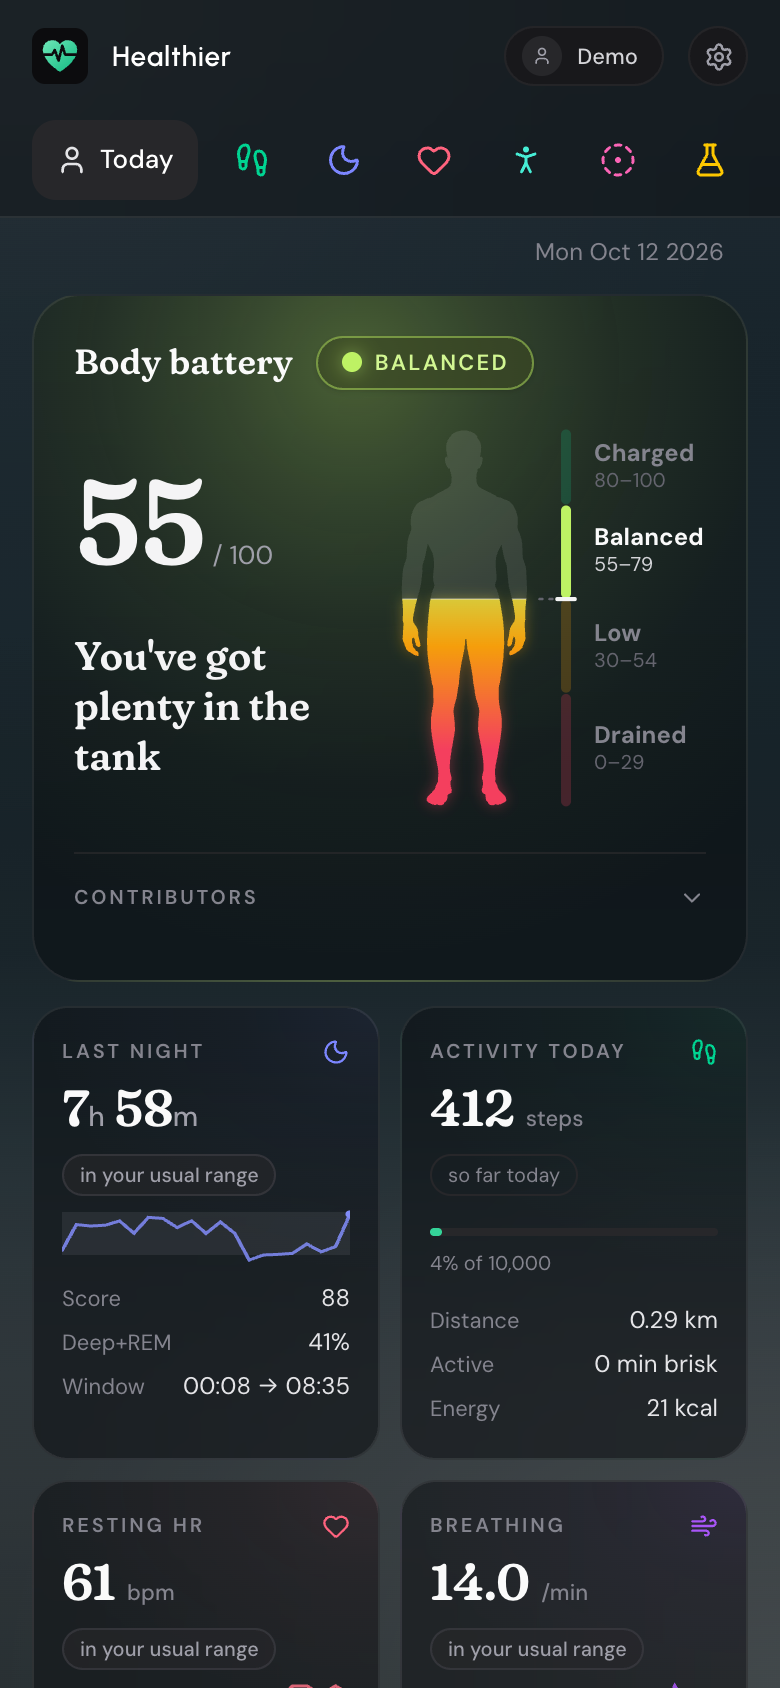
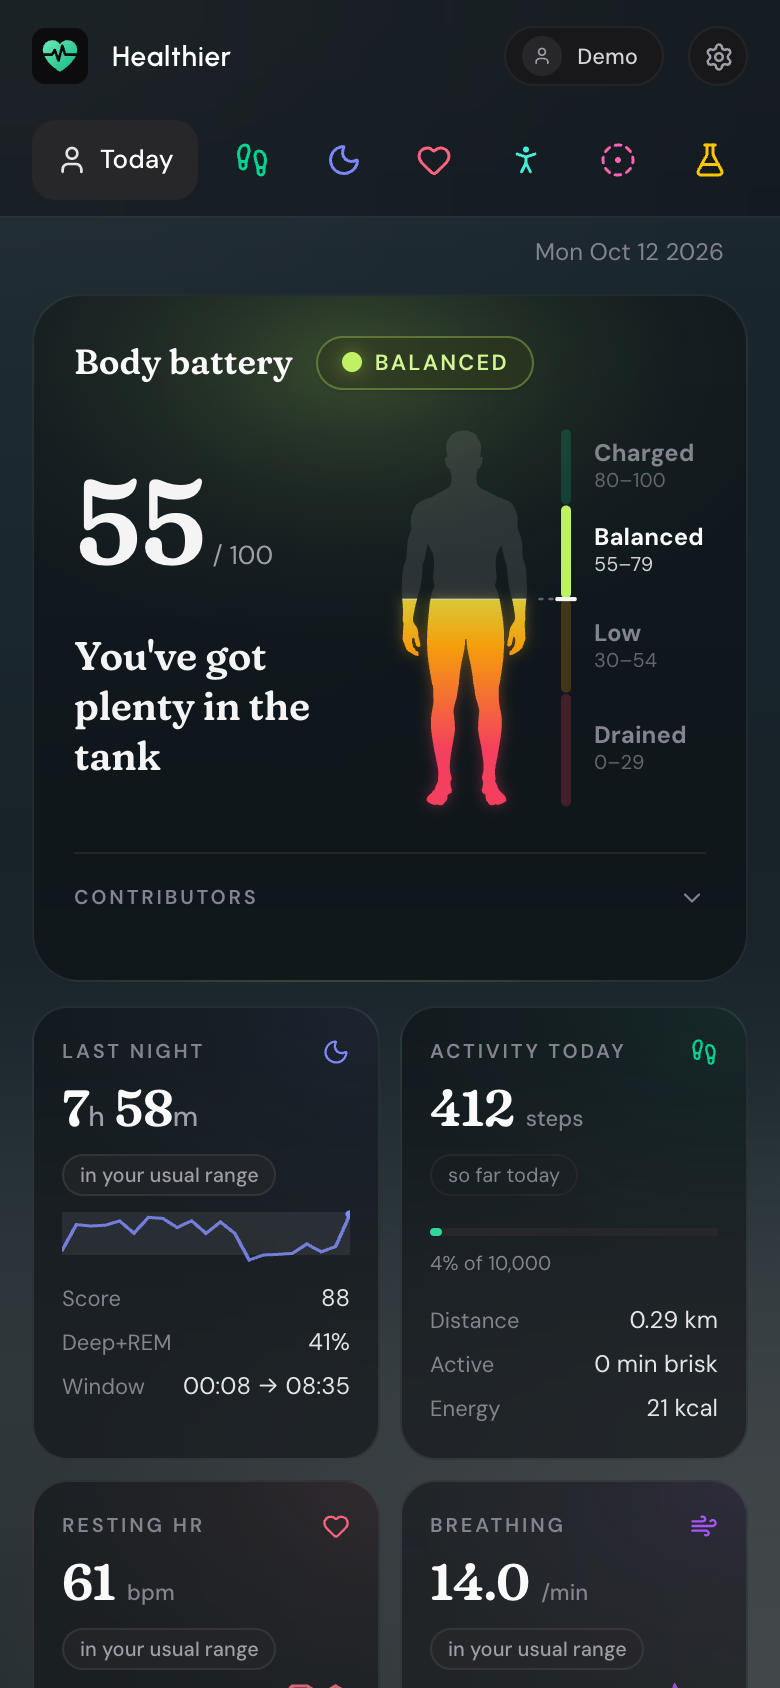
Softer score glows and pills, and shorter Settings subtitles (#141)
## What and why

Two rounds of touches tried in the app.

The body battery and sleep score glows spread too far into their cards.
They're now an oval around the pill's dot that reaches about as far as
an insight card's glow, a bit further on desktop where the cards and
type are bigger, and a little fainter. The status pills are softened to
match: a lighter tint and edge, and a smaller halo round the dot.

Settings is tidier. The status card no longer explains syncing when
everything is up to date. Each row in the list has a short subtitle: the
devices in priority order ("Fitbit · Charge 6 · …"), the number of data
types that have come in, the goals by name, On or Off for cycle
tracking, "Data processing in Healthier" for Data facts, and "Theme ·
Sign out · Delete" for the account. The strings they replace are gone
from the language file.

The README's Today, Sleep and Settings screenshots are retaken from demo
mode.

## Checklist

- [x] `npm run typecheck` and `npm test` pass
- [x] Words on screen come from `src/locales/en-US.json`, not the code
- [x] New or changed insight cards and labs read as plain sentences,
make no medical claims, and cite their evidence
- [x] Changes to normalisation (`registry.ts`, `normalize.ts`, sleep
parsing) bump `PIPELINE_VERSION`
- [x] Database changes are a new migration in `server/db.ts`, not an
edit to an existing one
- [x] New settings are documented in `.env.example` and the README
[…]

Changed region(s): [[0.3077, 0.154, 0.5846, 0.3697]]

diff --git a/src/theme.css b/src/theme.css
@@ -336,16 +336,25 @@ body::before {
     transparent);
 }
 /*
- * A score's glow is a status, so it's as strong as an insight card's glow and eases out the same
- * way: a circle centred on the dot, gone within a few hundred pixels of it, whatever the card's shape.
+ * A score's glow is a status, so it's nearly as strong as an insight card's glow (a little fainter) and
+ * eases out the same way, reaching a little further than an insight's (half its card's height,
+ * 86–99px) since it's all around the dot: an oval centred on it, wider than tall, the same size
+ * whatever the card's shape.
  */
 .glow-score {
-  background-image: radial-gradient(circle 300px at var(--glow-x, 0px) var(--glow-y, 0px),
-    color-mix(in srgb, var(--glow) 32%, transparent),
-    color-mix(in srgb, var(--glow) 19.8%, transparent) 22%,
-    color-mix(in srgb, var(--glow) 9.6%, transparent) 45%,
-    color-mix(in srgb, var(--glow) 3.2%, transparent) 70%,
+  --glow-size: 235px 140px;
+  background-image: radial-gradient(var(--glow-size) at var(--glow-x, 0px) var(--glow-y, 0px),
+    color-mix(in srgb, var(--glow) 23%, transparent),
+    color-mix(in srgb, var(--glow) 14.3%, transparent) 22%,
+    color-mix(in srgb, var(--glow) 6.9%, transparent) 45%,
+    color-mix(in srgb, var(--glow) 2.3%, transparent) 70%,
     transparent);
+}
+/* On wider screens the cards and their type are bigger, so the glow reaches further to look the same. */
+@media (min-width: 48rem) {
+  .glow-score {
+    --glow-size: 330px 195px;
+  }
 }
 :root[data-theme='light'] :is(.glow, .glow-score) {
   background-image: none;
@@ -366,13 +375,14 @@ body::before {
 }
 
 /*
- * A status pill is tinted and edged in its status's colour (--pill), the colour its glow is, and
- * names the status in a lighter shade of its ink (--pill-ink), the status's colour for words. The
- * light theme has no glows, so there the tint is fainter and the word a shade darker than its ink.
+ * A status pill is tinted and edged in its status's colour (--pill), the colour its glow is, as softly
+ * as the glow around it (.glow-score), and names the status in a lighter shade of its ink (--pill-ink),
+ * the status's colour for words. The light theme has no glows, so there the tint is fainter and the
+ * word a shade darker than its ink.
  */
 .status-pill {
-  background-color: color-mix(in srgb, var(--pill) 18%, rgb(9 9 11 / 0.6));
-  border-color: color-mix(in srgb, var(--pill) 45%, transparent);
+  background-color: color-mix(in srgb, var(--pill) 13%, rgb(9 9 11 / 0.6));
+  border-color: color-mix(in srgb, var(--pill) 32%, transparent);
 }
 .status-pill-word {
   color: color-mix(in srgb, var(--pill-ink) 70%, white);

diff --git a/src/views/SettingsView.tsx b/src/views/SettingsView.tsx
@@ -1,16 +1,13 @@
 import React, { useEffect, useLayoutEffect, useRef, useState } from 'react';
 import { BookOpen, ChevronLeft, ChevronRight, CircleDotDashed, CircleUserRound, Database, Target, Watch, type LucideIcon } from 'lucide-react';
 import { t, type MessageKey } from '../i18n';
-import { formatInteger } from '../i18n/format';
 import { estimatedSleepTarget } from '../pipeline/derive';
 import type { SyncResult } from '../pipeline/sync';
 import type { SyncFailure } from '../hooks/useHealth';
 import { useHistory } from '../hooks/useHistory';
-import { useGoals } from '../hooks/useGoals';
 import { useCycle } from '../hooks/useCycle';
-import { useTheme } from '../hooks/useTheme';
 import { useMediaQuery } from '../hooks/useMediaQuery';
-import { Card, fmtDuration } from '../ui/primitives';
+import { Card } from '../ui/primitives';
 import { AccountCard, CycleCard, DataFacts, GoalsCard, SectionScreen } from './DataCards';
 import { DataStreams, streamsSummary } from './DataStreams';
 import { StatusCard } from './DataStatus';
@@ -87,9 +84,7 @@ export function SettingsView({
   const wide = useMediaQuery('(min-width: 1024px)');
   const history = useHistory().info;
   const sources = useSources(data, live, onSourcesChanged);
-  const goals = useGoals();
   const { log } = useCycle();
-  const { theme } = useTheme();
   const autoNeed = estimatedSleepTarget(data.days);
   const [section, setSection] = useState<SectionId | null>(null);
 
@@ -154,17 +149,11 @@ export function SettingsView({
   const summaries: Record<SectionId, string> = {
     devices: sources.view ? sourcesSummary(sources.view) : '',
     streams: streamsSummary(data),
-    goals: t('data.overview.summaries.goals', {
-      steps: formatInteger(goals.steps),
-      brisk: formatInteger(goals.briskMinutes),
-      sleep: fmtDuration(goals.sleepNeed ?? autoNeed),
-    }),
-    cycle: t('data.overview.summaries.cycle', {
-      tracking: log.settings.tracking ? 'on' : 'off',
-      cards: log.settings.todayCards ? 'yes' : 'no',
-    }),
+    // The goals there are by name, not their numbers.
+    goals: [t('data.goals.steps.label'), t('data.goals.brisk.label'), t('data.goals.sleepNeed.label')].join(' · '),
+    cycle: t('data.overview.summaries.cycle', { tracking: log.settings.tracking ? 'on' : 'off' }),
     facts: t('data.overview.summaries.facts'),
-    account: t(live ? 'data.overview.summaries.account' : 'data.overview.summaries.accountDemo', { theme }),
+    account: t(live ? 'data.overview.summaries.account' : 'data.overview.summaries.accountDemo'),
   };
 
   const render = (id: SectionId) => {

diff --git a/src/views/DataStatus.tsx b/src/views/DataStatus.tsx
@@ -50,7 +50,8 @@ function sentences(status: DataStatus, data: SyncResult, synced: number | null, 
     formatList(dataTypes.map((dt) => streamNameInText(dt, data.meta.streams.find((r) => r.dataType === dt)?.label ?? dt)), join);
   switch (status.kind) {
     case 'current':
-      return { title: t('data.status.current.title'), sub: t(demo ? 'data.status.current.demo' : 'data.status.current.sub') };
+      // Up to date needs no explaining; only the demo says what it is.
+      return { title: t('data.status.current.title'), sub: demo ? t('data.status.current.demo') : null };
     case 'behind': {
       const count = status.streams.length;
       return {
@@ -166,7 +167,7 @@ export function StatusCard({ data, history, syncing, failure, demo, onFullSync, 
         <span aria-hidden="true" className={`size-2 shrink-0 rounded-full ring-3 ${DOT[status.kind]} ${syncing ? 'animate-pulse' : ''}`} />
         <span className="min-w-0 truncate">{eyebrow}</span>
       </p>
-      <p className="mt-1.5 text-detail leading-relaxed text-zinc-400">{sub}</p>
+      {sub && <p className="mt-1.5 text-detail leading-relaxed text-zinc-400">{sub}</p>}
       {reason && <p className="mt-2 text-caption leading-relaxed text-rose-300/90 break-words">{reason}</p>}
       <dl className="mt-4 pt-3.5 border-t border-zinc-800/60 grid grid-cols-3 gap-3">
         <Fact

diff --git a/src/views/SourcesCard.tsx b/src/views/SourcesCard.tsx
@@ -137,13 +137,12 @@ export function useSources(data: SyncResult, live: boolean, onChanged: (refetchi
   return { view: live ? loaded : demo, save, refetching };
 }
 
-/** What the Settings page's list says of them: "Google Fitbit Air first, then Smart scale". */
+/** What the Settings page's list says of them: the ones in use in their order, "Google Fitbit Air · Smart scale". */
 export function sourcesSummary(view: SourcesResponse): string {
   const off = new Set(view.prefs.off);
   const used = ordered(view).filter((s) => !off.has(s.id));
   if (!used.length) return t('data.overview.summaries.devicesNone');
-  if (used.length === 1) return used[0].label;
-  return t('data.overview.summaries.devices', { first: used[0].label, rest: formatList(used.slice(1).map((s) => s.label)) });
+  return used.map((s) => s.label).join(' · ');
 }
 
 export function SourcesCard({ data, live, sources }: {

diff --git a/src/views/DataStreams.tsx b/src/views/DataStreams.tsx
@@ -63,11 +63,10 @@ function streamCounts(reports: StreamReport[], today: CivilDate) {
     .filter((c) => c.n > 0);
 }
 
-/** The counts in plain words, for the Settings page's list: "20 up to date · 4 with nothing recorded". */
+/** For the Settings page's list: how many kinds of data have come in, "18 data types". */
 export function streamsSummary(data: SyncResult): string {
-  return streamCounts(data.meta.streams, data.meta.to)
-    .map(({ kind, n }) => t(KIND[kind].summary, { count: n }))
-    .join(' · ');
+  const count = data.meta.streams.filter((r) => !['empty', 'unshared'].includes(streamKind(r, data.meta.to))).length;
+  return t('data.overview.summaries.streams', { count });
 }
 
 /** Today, yesterday or a date, for the messages to say: "14 Aug", or "2 Mar 2025" from another year. */

diff --git a/src/ui/primitives.tsx b/src/ui/primitives.tsx
@@ -250,7 +250,7 @@ const BAND_COPY: Record<Band, { label: MessageKey; cls: string }> = {
  * A score's tier in a pill: its name in capitals after a glowing dot of its colour, as the sleep
  * score and the body battery show it. Set in the body face even inside a title.
  */
-export function StatusPill({ name, dot, ink = dot, glow = `0 0 10px ${tint(dot, 60)}`, className = '', dotRef }: {
+export function StatusPill({ name, dot, ink = dot, glow = `0 0 10px ${tint(dot, 45)}`, className = '', dotRef }: {
   name: string;
   /** The status's colour: the dot, and the pill's tint and edge (.status-pill). */
   dot: string;

diff --git a/src/views/SleepCards.tsx b/src/views/SleepCards.tsx
@@ -57,7 +57,7 @@ export function getScoreTier(total: number) {
     dotColor: `var(--stage-${mark})`,
     pillInk: inkOf(mark),
     ink: inkOf(word),
-    glow: `0 0 10px ${tint(`var(--stage-${mark})`, 60)}`,
+    glow: `0 0 10px ${tint(`var(--stage-${mark})`, 45)}`,
   });
   if (total >= 85) return tier('sleep.night.score.tiers.excellent', 'deep', 'deep');
   if (total >= 70) return tier('sleep.night.score.tiers.good', 'light', 'rem');
